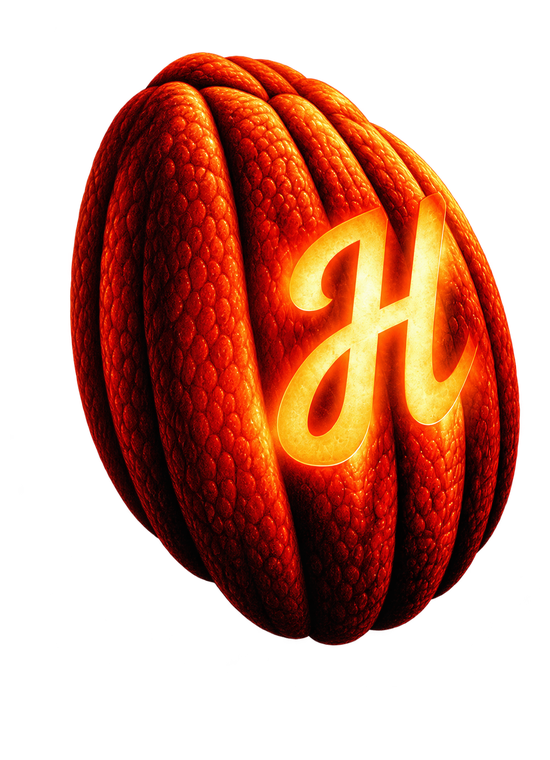
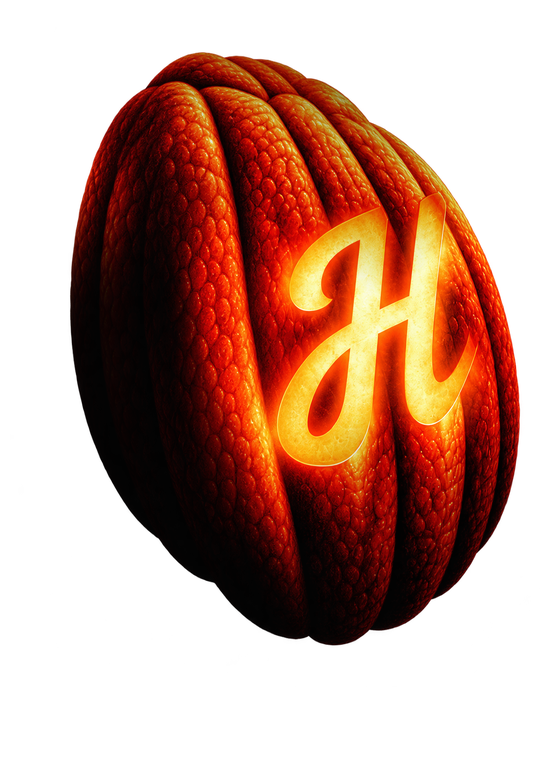
Poster shading on the pumpkin's left side; centre the TV column
- prep_layers: measure the poster's falloff (poster / layer luminance away
  from the knife), smooth it and bake it into pumpkin.png so its left side
  always fades into shadow like the poster
- tv.js: column centred in its panel (x and y)

Claude-Session: https://claude.ai/code/session_01U2sS6CLVvwZt3yr91v4FPT

diff --git a/halloween-at-henderson/motion/tv.js b/halloween-at-henderson/motion/tv.js
@@ -23,8 +23,9 @@
   const DUR = 60;
   const STAGE_W = 1335;   // stage clip; the column starts here
   const SX = 660;         // stage centre
-  const COL = 1600;       // column centre
-  const QR = { cx: COL, cy: 445, mod: 12, pad: 30 };
+  const COL = (STAGE_W + W) / 2;   // column centre (centred in the panel)
+  const CY = -30;         // nudges the column block so it sits centred vertically
+  const QR = { cx: COL, cy: 445 + CY, mod: 12, pad: 30 };
   const TR = 0.6;         // scene transition length
 
   const TV = { qr: null };
@@ -387,12 +388,12 @@
     pSparkle(ctx, q.x - 2, q.y + q.s + 2, 150, t, 15, 11.0);
     // "scan for tickets" neon, which re-flickers on every 15s
     const blink = neon(clamp((t % 15) / 0.75));
-    neonLabel(ctx, c.scan, 178, 1, 0, { x: COL, size: 46, tracking: 10, maxW: 470, color: '#FF9A5C', glow: 38, alpha: (0.85 + 0.15 * fl) * (0.4 + 0.6 * blink) });
+    neonLabel(ctx, c.scan, 178 + CY, 1, 0, { x: COL, size: 46, tracking: 10, maxW: 470, color: '#FF9A5C', glow: 38, alpha: (0.85 + 0.15 * fl) * (0.4 + 0.6 * blink) });
     // date, time, pricing note, wordmark
-    emberText(ctx, c.date, COL, 760, fit(ctx, c.date, 66, 470), { glow: 0.85 + 0.15 * pflicker(t, DUR, 7) });
-    kicker(ctx, c.time, 815, 1, { x: COL, size: 30, tracking: 8, maxW: 470 });
-    kicker(ctx, c.cheaper, 862, 0.9, { x: COL, size: 21, tracking: 5, color: BONE, glow: 0, maxW: 470 });
-    logo(ctx, COL, 950, 320, 1, 0.16 + 0.06 * pflicker(t, DUR, 11));
+    emberText(ctx, c.date, COL, 760 + CY, fit(ctx, c.date, 66, 470), { glow: 0.85 + 0.15 * pflicker(t, DUR, 7) });
+    kicker(ctx, c.time, 815 + CY, 1, { x: COL, size: 30, tracking: 8, maxW: 470 });
+    kicker(ctx, c.cheaper, 862 + CY, 0.9, { x: COL, size: 21, tracking: 5, color: BONE, glow: 0, maxW: 470 });
+    logo(ctx, COL, 950 + CY, 320, 1, 0.16 + 0.06 * pflicker(t, DUR, 11));
   }
 
   // crisp QR modules on a white tile, drawn after grain/vignette

diff --git a/halloween-at-henderson/motion/prep_layers.py b/halloween-at-henderson/motion/prep_layers.py
@@ -60,7 +60,19 @@ k_a[(r < 80) & (yy > TIP[1] + 4)] = 0
 save(knife_rgb, k_a, ART, "knife.png")
 
 # ---- pumpkin (complete; nothing hidden behind the knife any more)
-save(pump_rgb, pump_a, ART, "pumpkin.png")
+# The pack's pumpkin is lit evenly, but on the poster its left side (behind the
+# blade and hand) falls off into shadow. Measure that falloff as poster / layer
+# luminance on clean pumpkin pixels (away from the knife), smooth it into a
+# field, and bake it in so the pumpkin always has the poster's shading.
+poster = np.asarray(Image.open(ROOT.parent / "reference" / "poster-01.png").convert("RGB")).astype(np.float32)
+lum = lambda x: x[..., :3] @ np.array([0.3, 0.59, 0.11], np.float32)
+l_pump, l_post = lum(pump_rgb), lum(poster)
+near_knife = cv2.dilate((knife_a > 10).astype(np.uint8), np.ones((25, 25), np.uint8)) > 0
+w = ((pump_a > 240) & ~near_knife & (l_pump > 25)).astype(np.float32)
+ratio = np.clip(l_post / np.maximum(l_pump, 1), 0, 1.5)
+shade = cv2.GaussianBlur(ratio * w, (0, 0), 40) / np.maximum(cv2.GaussianBlur(w, (0, 0), 40), 1e-4)
+shade = np.clip(shade, 0, 1) ** 1.8   # deepen: the measured field is softened by the blur
+save(pump_rgb * shade[..., None], pump_a, ART, "pumpkin.png")
 
 # ---- H carving glow: hot pixels inside the H box
 box = np.zeros((H, W), np.float32)
